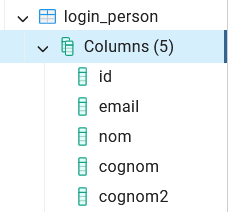
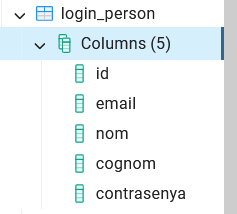
model usuari arreglat

Changed region(s): [[0.0, 0.0, 1.0, 1.0], [0.1228, 0.1981, 0.2149, 0.2547]]

diff --git a/ACTIVITAT_13/TIC_BCN_MVA/login/migrations/0001_initial.py b/ACTIVITAT_13/TIC_BCN_MVA/login/migrations/0001_initial.py
@@ -1,4 +1,4 @@
-# Generated by Django 4.2 on 2025-02-12 18:58
+# Generated by Django 4.2 on 2025-02-16 13:47
 
 from django.db import migrations, models
 
@@ -18,7 +18,7 @@ class Migration(migrations.Migration):
                 ('email', models.CharField(unique=True)),
                 ('nom', models.CharField(max_length=100)),
                 ('cognom', models.CharField(max_length=100)),
-                ('cognom2', models.CharField(max_length=100)),
+                ('contrasenya', models.CharField(max_length=100)),
             ],
         ),
     ]

diff --git a/ACTIVITAT_13/TIC_BCN_MVA/login/models.py b/ACTIVITAT_13/TIC_BCN_MVA/login/models.py
@@ -6,5 +6,5 @@ class Person(models.Model):
     email = models.CharField(unique=True)
     nom = models.CharField(max_length=100)
     cognom = models.CharField(max_length=100)
-    cognom2 = models.CharField(max_length=100)
+    contrasenya = models.CharField(max_length=100)
 
